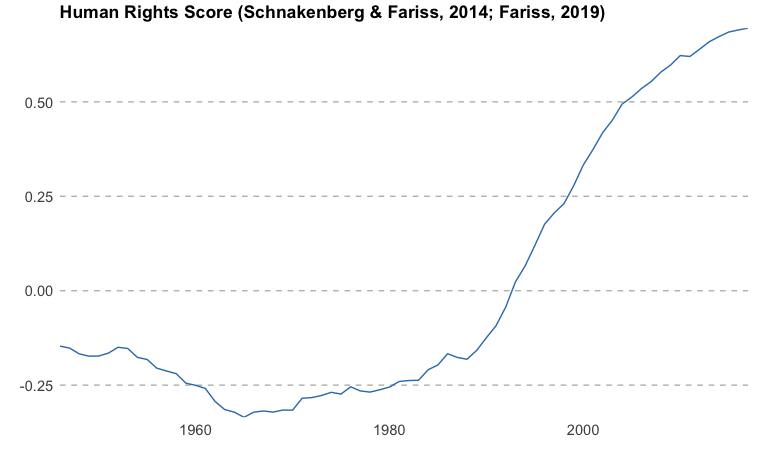
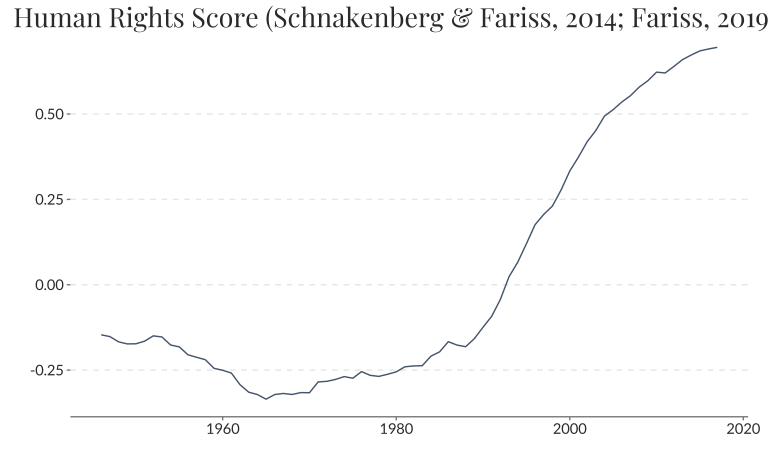
updates including new owid style theme

diff --git a/README.md b/README.md
@@ -105,7 +105,7 @@ owid_map(rights)
 
 <img src="inst/images/map-1.png" style="display: block; margin: auto;" />
 
-## Creating Our World in Data style graphs
+## Creating Our World in Data style interactive charts
 
 `owid_grapher()` creates graphs in the style of Our World in Data. The
 output of `owid_grapher()` can be piped into `grapher_line()` to add a
